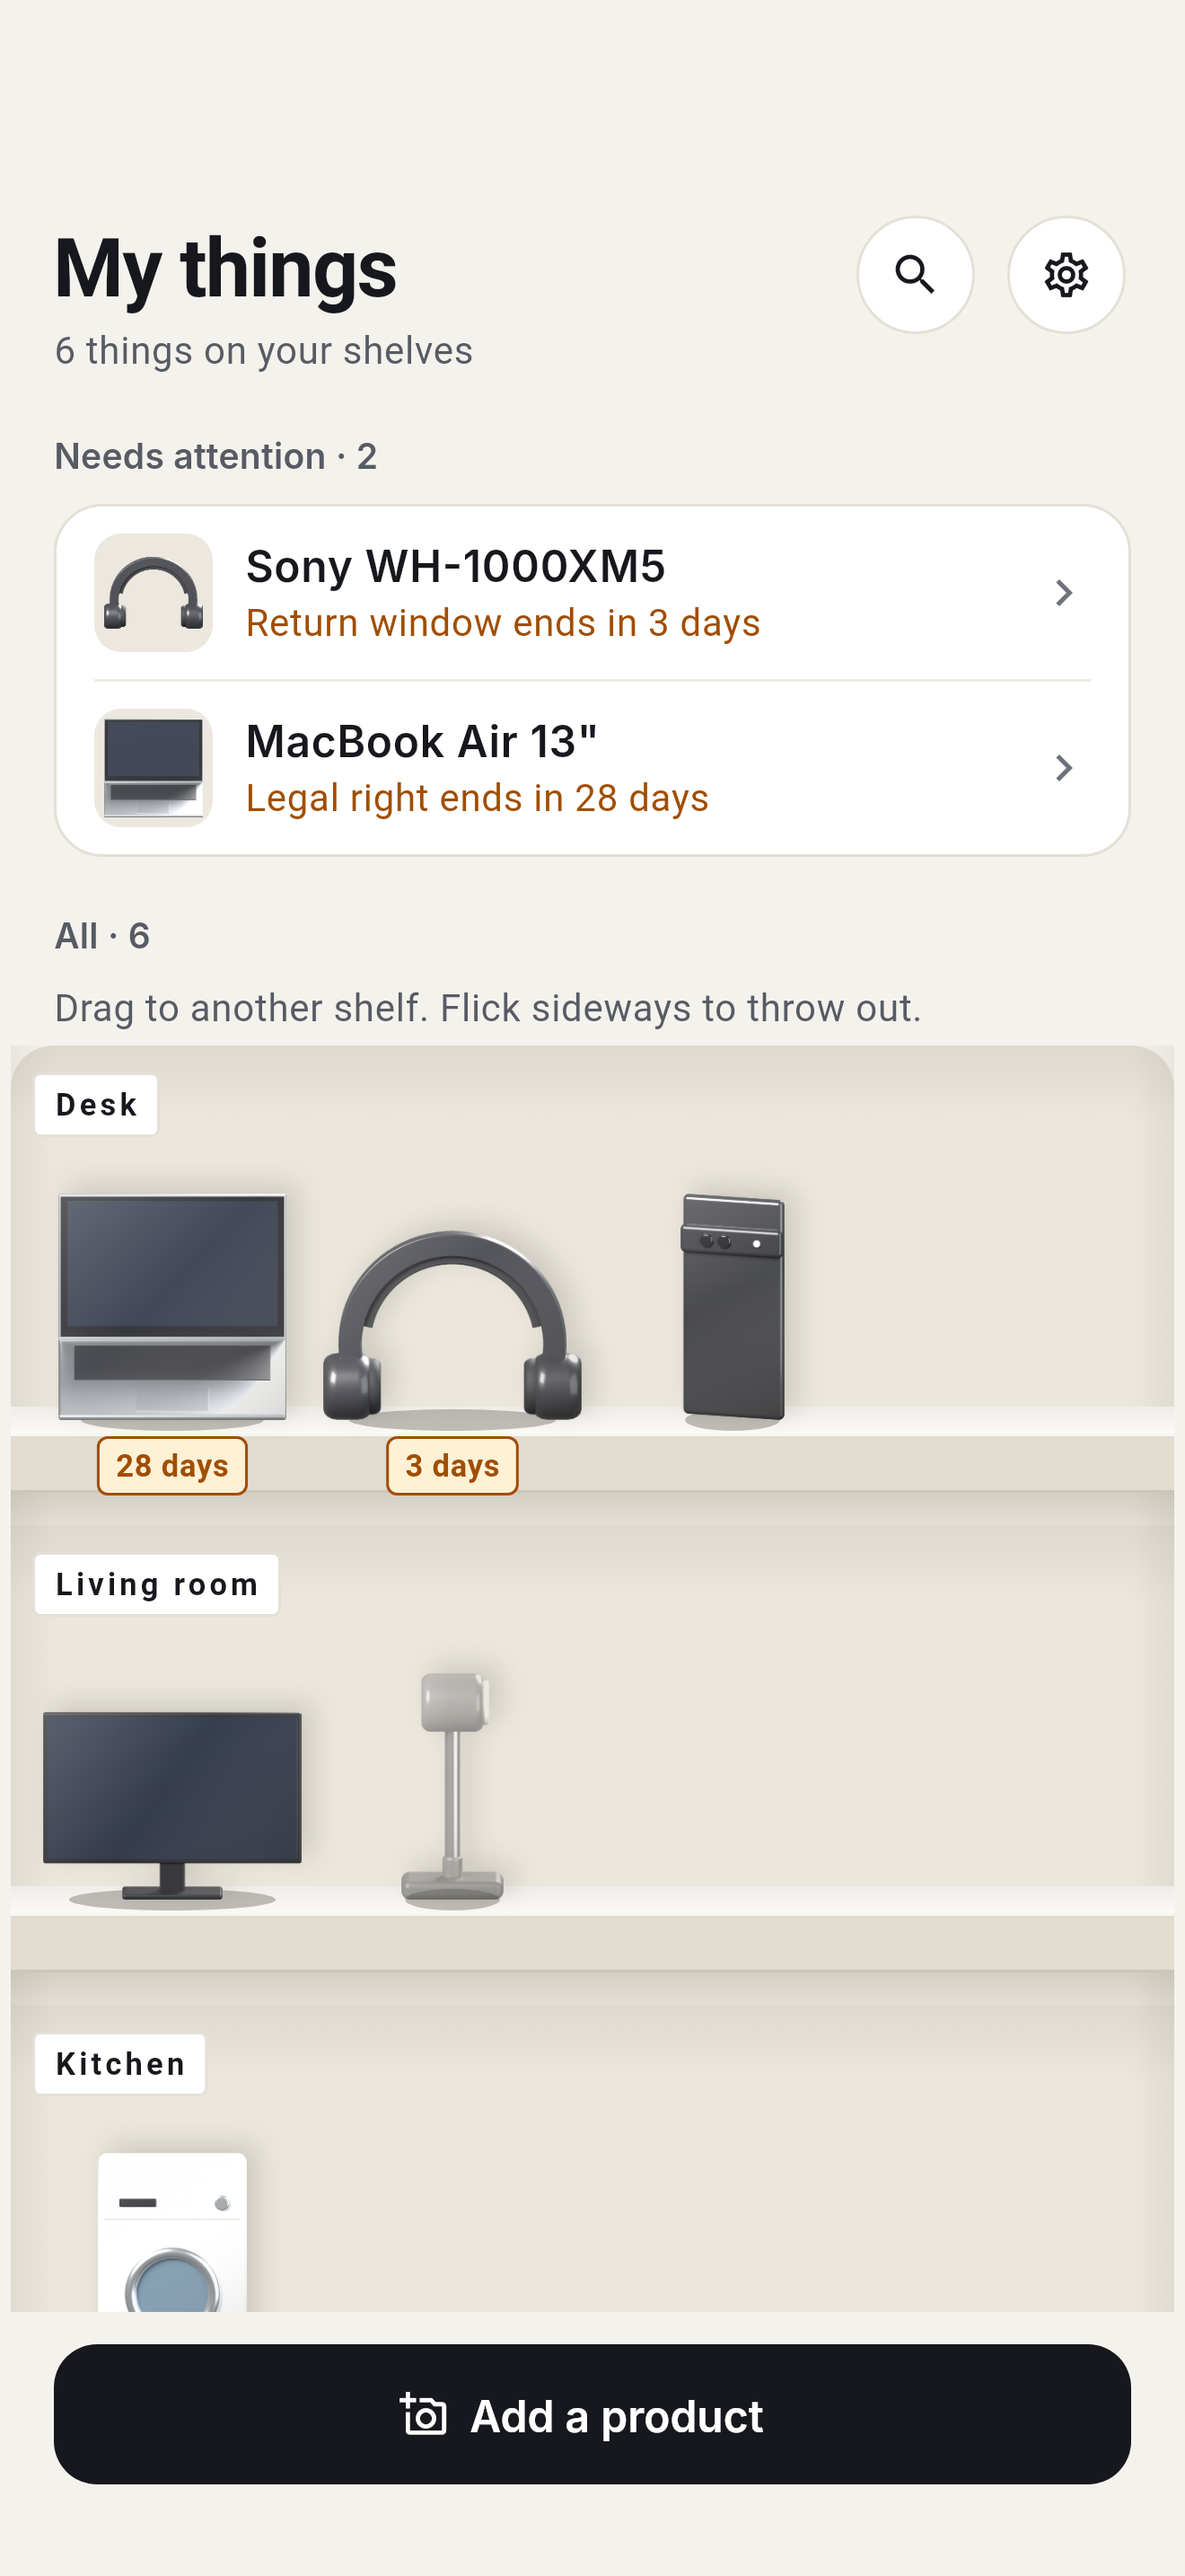
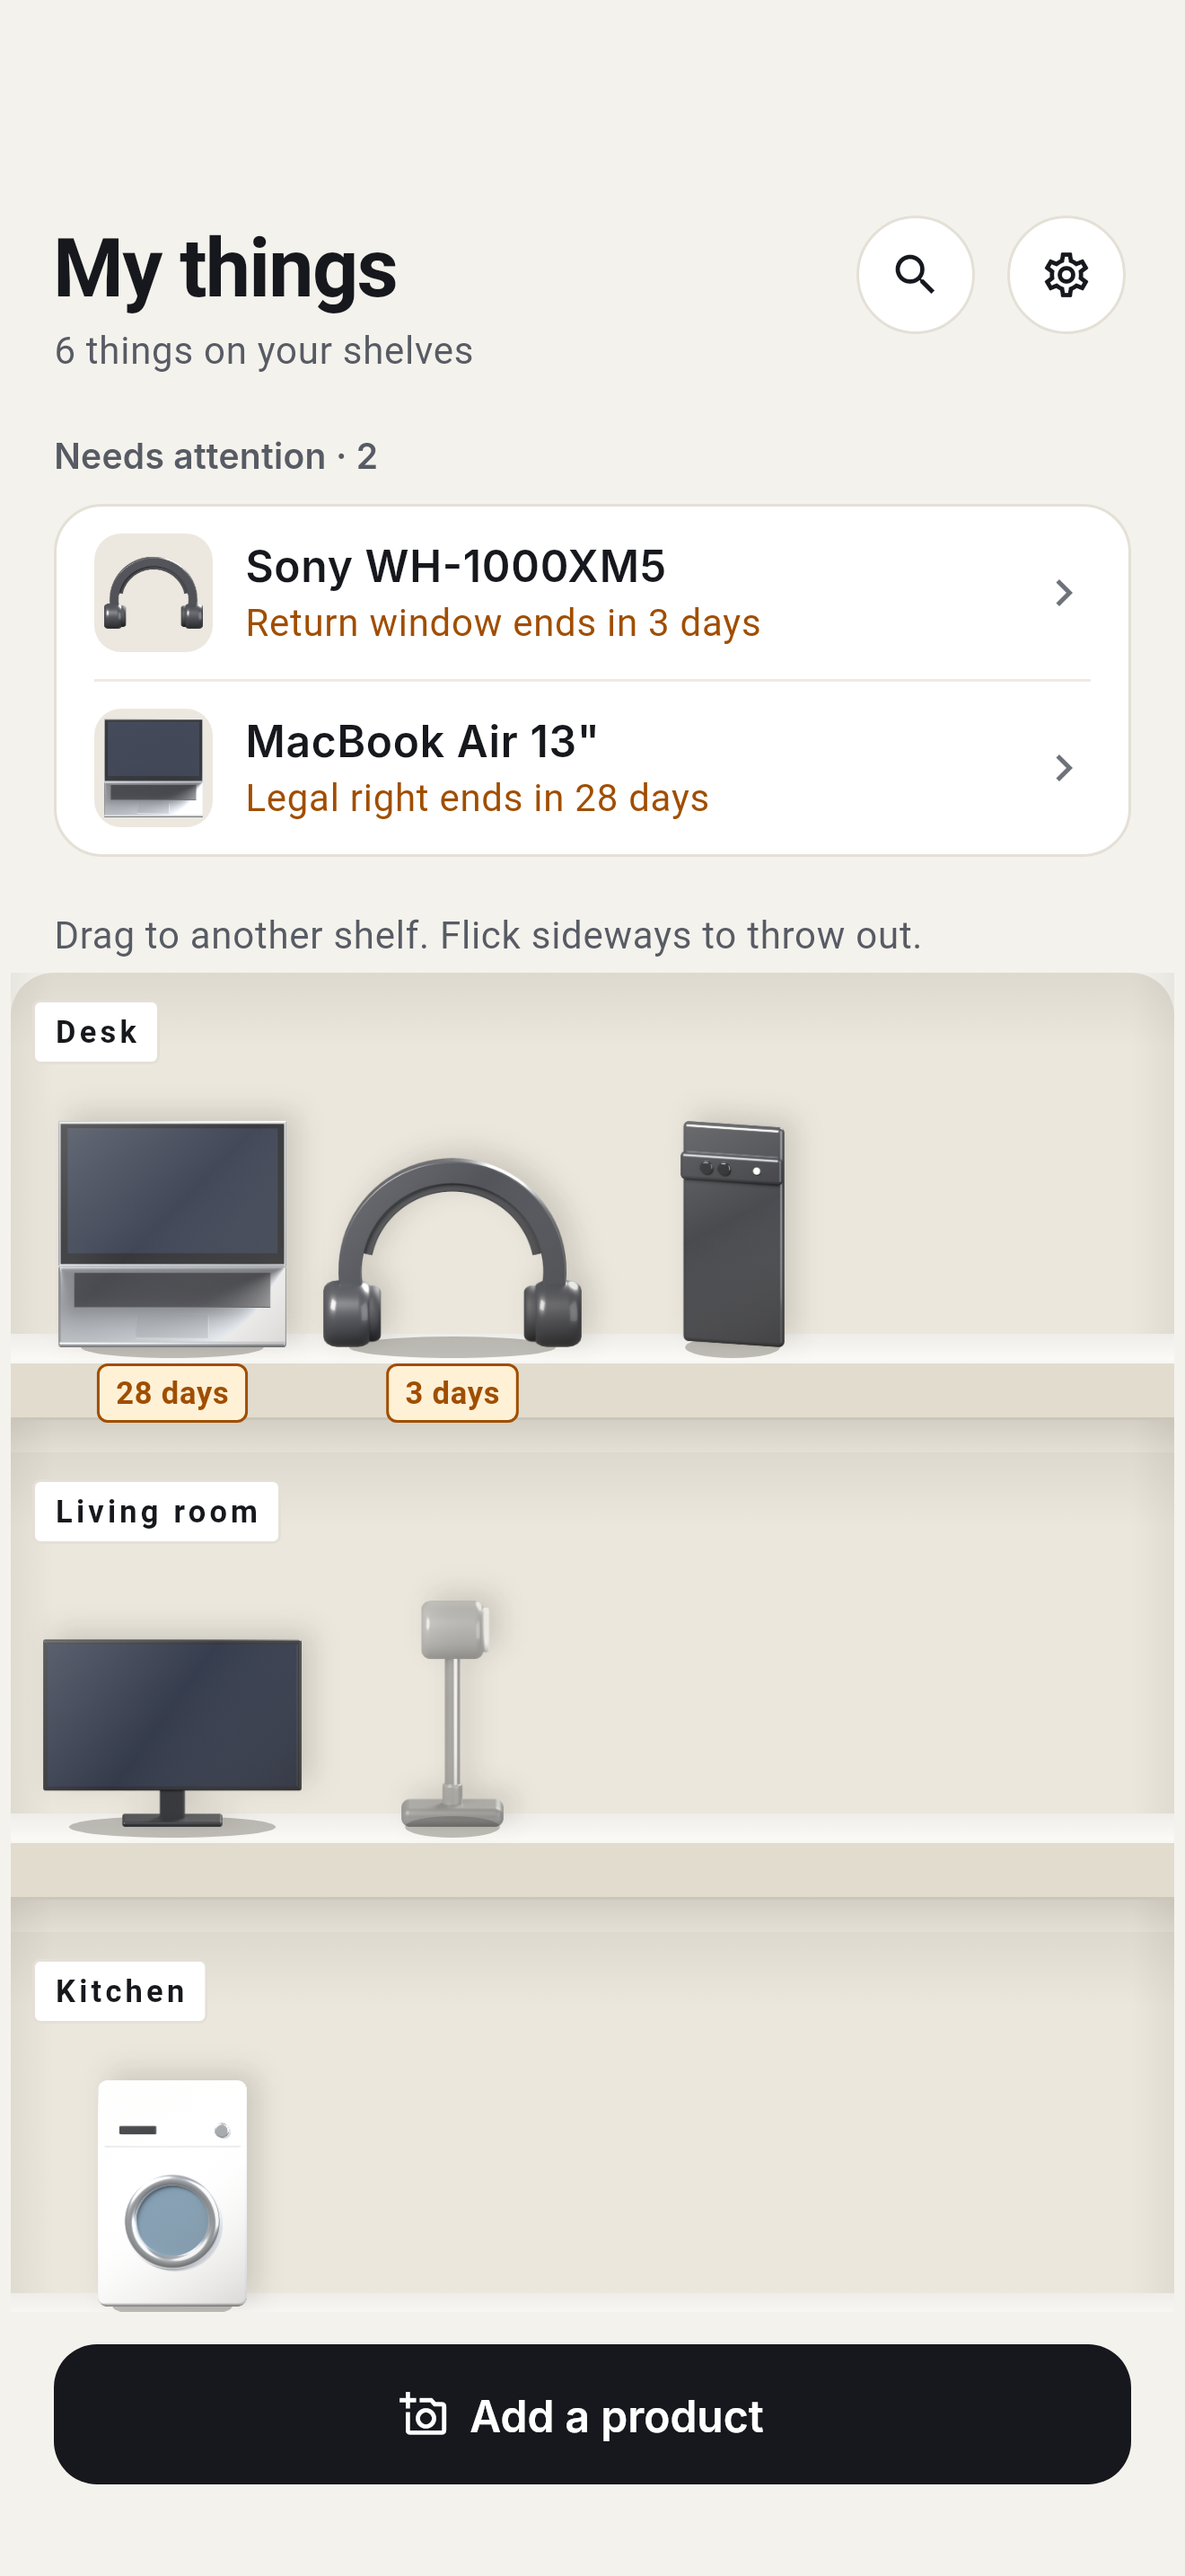
Karanlık modda raf duvarı aydınlandı, ana ekranda sayı bir kez, mağazaya 5. ekran "Bir sorun var" (#31)
- Karanlık tema: duvar #17181B → #212328, rafın üstünden hafif ışık (wallLight; açık temada saydam).
- Ana ekranda görünür "Tümü · 6" başlığı kalktı; sayı ekran okuyucu için başlık olarak kaldı.
- Mağaza ekranları: 5_sorun (TR+EN), sorun akışında fotoğraf eklenmiş hâliyle.

Claude-Session: https://claude.ai/code/session_01PF1bpunu6HEbMT9bxfEQUX

Changed region(s): [[0.0, 0.3414, 0.9939, 0.8999]]

diff --git a/tool/magaza/ekran_test.dart b/tool/magaza/ekran_test.dart
@@ -16,6 +16,7 @@ import 'package:warranty_vault/features/capture/add_item_screen.dart';
 import 'package:warranty_vault/features/items/data/demo_vault.dart';
 import 'package:warranty_vault/features/items/data/vault_store.dart';
 import 'package:warranty_vault/features/items/providers.dart';
+import 'package:warranty_vault/features/items/ui/documents.dart';
 import 'package:warranty_vault/features/settings/settings.dart';
 import 'package:warranty_vault/rights/rule_set.dart';
 
@@ -74,6 +75,7 @@ void main() {
         photoPickerProvider.overrideWithValue((_) async => File('assets/kategori/headphones.png').readAsBytesSync()),
         systemLiftProvider.overrideWithValue((b) async => (png: b, why: null)),
         photoLabelsProvider.overrideWithValue((_) async => [('headphones', .8)]),
+        docPickerProvider.overrideWithValue((_) async => (bytes: File('assets/demo/fis_macbook.jpg').readAsBytesSync(), extension: 'jpg')),
       ],
       child: const WarrantyVaultApp(),
     ));
@@ -102,6 +104,27 @@ void main() {
     await settle();
     await shot(t, '4_kasada');
     final nav = t.state<NavigatorState>(find.byType(Navigator).first);
+    nav.pop();
+    await t.pumpAndSettle();
+    // 5: "Something's wrong" (Rafım Ar-Ge 29 Oct): what sets the app apart
+    // from a reminder list. The broken laptop, whom to ask, and step 1 done
+    // in the app (a photo of the problem added).
+    await t.tap(find.text(lang == 'tr' ? 'Bir sorun var' : "Something's wrong"));
+    await t.pumpAndSettle();
+    final evidence = find.text(lang == 'tr' ? 'Sorunun fotoğrafını ekle' : 'Add a photo of the problem');
+    await t.ensureVisible(evidence);
+    await t.pumpAndSettle();
+    await t.tap(evidence);
+    await t.pumpAndSettle();
+    await t.runAsync(() async {
+      await t.tap(find.byIcon(Icons.photo_library_outlined).last);
+      await Future<void>.delayed(const Duration(milliseconds: 300));
+    });
+    await t.pumpAndSettle();
+    await t.drag(find.byType(Scrollable).last, const Offset(0, 2000));
+    await t.pumpAndSettle();
+    await settle();
+    await shot(t, '5_sorun');
     nav.pop();
     await t.pumpAndSettle();
     nav.pop();

diff --git a/lib/core/theme/tokens.dart b/lib/core/theme/tokens.dart
@@ -32,6 +32,7 @@ class VColors extends ThemeExtension<VColors> {
     required this.plankTop,
     required this.plankFront,
     required this.shade,
+    required this.wallLight,
   });
 
   final Color background;
@@ -67,6 +68,13 @@ class VColors extends ThemeExtension<VColors> {
   final Color plankFront;
   final Color shade;
 
+  /// Light falling down the back wall under each plank. Only the dark theme
+  /// has it (Rafım Ar-Ge 29 Oct): there the wall sat a hair off the page and
+  /// black headphones, phones and TVs melted into it. A little light from
+  /// above gives their silhouettes an edge; in the light theme the page
+  /// already does that, so it stays transparent.
+  final Color wallLight;
+
   // Text colours were picked for ≥4.5:1 on their surface in each theme.
   //
   // Review round 3 (2026-10-14): the accent is ink, not blue. With a blue
@@ -98,6 +106,7 @@ class VColors extends ThemeExtension<VColors> {
     plankTop: Color(0xFFFBFAF6),
     plankFront: Color(0xFFE2DCCF),
     shade: Color(0xFF2A2418),
+    wallLight: Color(0x00FFFFFF),
   );
 
   static const dark = VColors(
@@ -118,10 +127,13 @@ class VColors extends ThemeExtension<VColors> {
     adviceBorder: Color(0xFFF2F1EE),
     adviceTitle: Color(0xFFF2F1EE),
     lift: Color(0x8C000000),
-    wall: Color(0xFF17181B),
+    // A step lighter than it was (#17181B, 29 Oct): dark products need a
+    // wall they can stand out against.
+    wall: Color(0xFF212328),
     plankTop: Color(0xFF34363C),
     plankFront: Color(0xFF26282D),
     shade: Color(0xFF000000),
+    wallLight: Color(0x14FFFFFF),
   );
 
   @override

diff --git a/lib/features/items/ui/home_screen.dart b/lib/features/items/ui/home_screen.dart
@@ -121,10 +121,19 @@ class HomeScreen extends ConsumerWidget {
               padding: const EdgeInsets.fromLTRB(VSpace.xl, VSpace.xl, VSpace.xl, VSpace.xs),
               sliver: SliverToBoxAdapter(
                 child: Column(crossAxisAlignment: CrossAxisAlignment.start, children: [
-                  SectionTitle(l.allHeader(active.length)),
+                  // No visible "All · 6" title (29 Oct): the header above
+                  // already says how many things stand on the shelves. The
+                  // count stays a heading for screen readers, merged into the
+                  // hint so the rotor still finds where the cabinet starts.
                   // The two gestures, said once in plain words; there is no
                   // tutorial to dismiss.
-                  Text(l.cabinetHint, style: context.t.small.copyWith(color: context.c.textSecondary)),
+                  MergeSemantics(
+                    child: Semantics(
+                      header: true,
+                      label: l.allHeader(active.length),
+                      child: Text(l.cabinetHint, style: context.t.small.copyWith(color: context.c.textSecondary)),
+                    ),
+                  ),
                   // One quiet line while samples stand on the shelves; no
                   // dialog when the first own product arrives (it would
                   // interrupt the moment the user came for). Wrap, not Row:

diff --git a/lib/features/cabinet/cabinet_view.dart b/lib/features/cabinet/cabinet_view.dart
@@ -424,6 +424,26 @@ class _CabinetViewState extends ConsumerState<CabinetView> with SingleTickerProv
               ),
             ),
           for (var s = 0; s < geo.shelves; s++) ...[
+            // Light down the wall from the top of the bay (dark theme only;
+            // transparent in light), under the shade line below.
+            Positioned(
+              left: _wallInset,
+              right: _wallInset,
+              top: geo.bandTop(s),
+              height: geo.plankTop(s) - geo.bandTop(s),
+              child: IgnorePointer(
+                child: DecoratedBox(
+                  decoration: BoxDecoration(
+                    borderRadius: s == 0 ? const BorderRadius.vertical(top: Radius.circular(VRadius.md)) : null,
+                    gradient: LinearGradient(
+                      begin: Alignment.topCenter,
+                      end: Alignment.bottomCenter,
+                      colors: [context.c.wallLight, context.c.wallLight.withValues(alpha: 0)],
+                    ),
+                  ),
+                ),
+              ),
+            ),
             // Shade cast on the wall by the cabinet top or the plank above.
             Positioned(
               left: _wallInset,

diff --git a/test/karanlik_raf_test.dart b/test/karanlik_raf_test.dart
@@ -1,0 +1,30 @@
+import 'package:flutter_test/flutter_test.dart';
+import 'package:warranty_vault/core/theme/tokens.dart';
+
+import 'home_smoke_test.dart' show app;
+
+void main() {
+  test('dark cabinet: the wall stands off the page and light falls down it', () {
+    const d = VColors.dark;
+    // Black headphones, phones and TVs melted into a wall a hair off the
+    // page (#17181B on #111214). The wall needs a visible step.
+    expect(d.wall.computeLuminance() - d.background.computeLuminance(), greaterThan(.008));
+    expect(d.wallLight.a, greaterThan(0));
+    // The light theme is unchanged: no added light.
+    expect(VColors.light.wallLight.a, 0);
+  });
+
+  testWidgets('home says the count once; the cabinet start stays a heading for screen readers', (t) async {
+    final semantics = t.ensureSemantics();
+    await t.pumpWidget(app());
+    await t.pumpAndSettle();
+    expect(find.textContaining('All ·'), findsNothing);
+    expect(
+      find.bySemanticsLabel(RegExp(r'All · \d')),
+      findsOneWidget,
+    );
+    final node = t.getSemantics(find.bySemanticsLabel(RegExp(r'All · \d')));
+    expect(node.flagsCollection.isHeader, isTrue);
+    semantics.dispose();
+  });
+}
